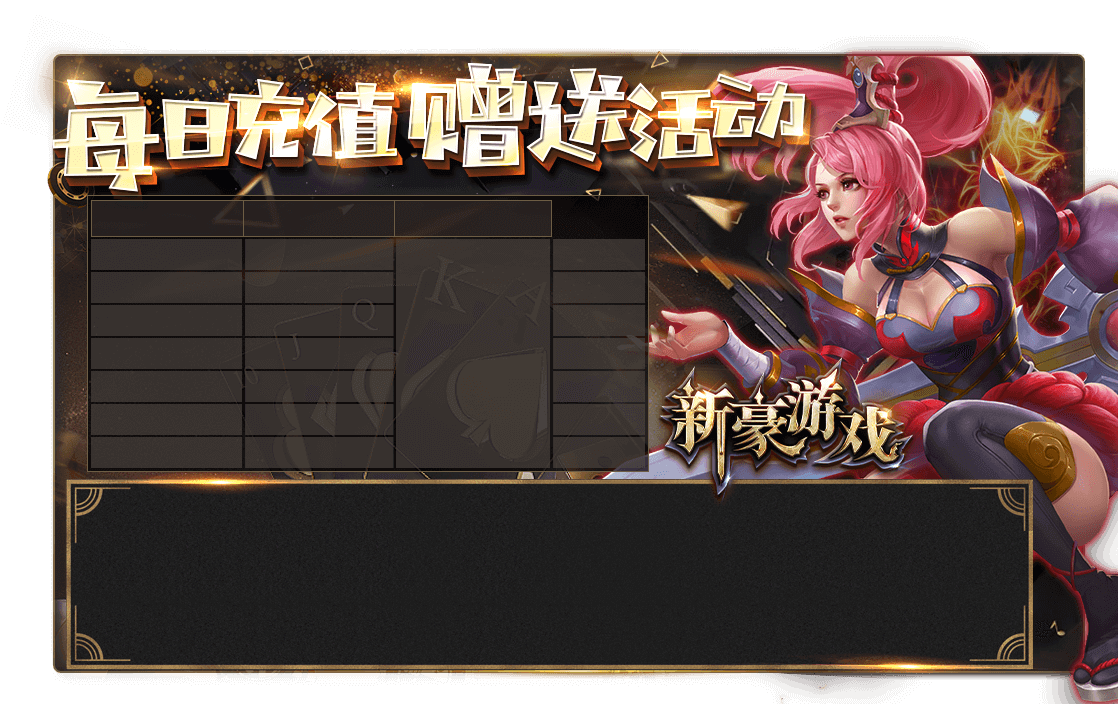
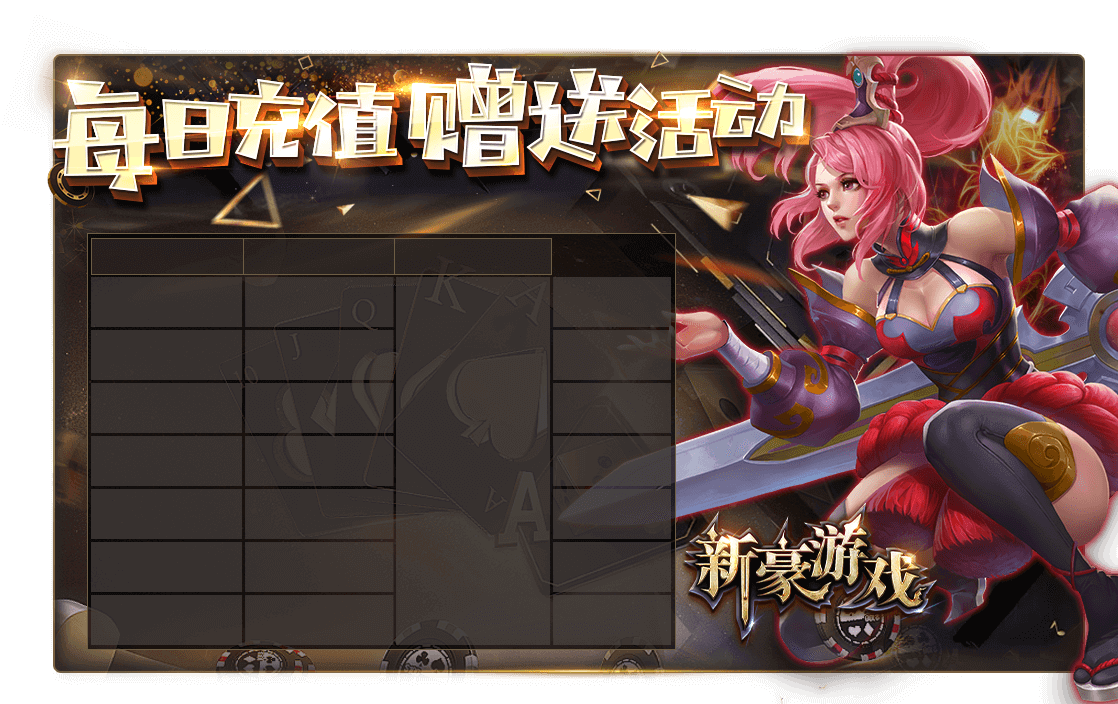
xx

diff --git a/src/components/package_11/Lyhsc.tsx b/src/components/package_11/Lyhsc.tsx
@@ -15,7 +15,8 @@ interface State {
     is_received:number,
     btnActive :boolean,
     applyBtnInteractable : boolean,
-    is_apply : boolean
+    is_apply : boolean,
+    ruleActive:boolean
 }
 export default class Lyhsc11 extends React.Component<Props,State>{
     state = {
@@ -32,7 +33,8 @@ export default class Lyhsc11 extends React.Component<Props,State>{
         pay_amount_byday:0,
         btnActive :false,
         applyBtnInteractable : true,
-        is_apply : false
+        is_apply : false,
+        ruleActive:false
     }
     btnIndex= 0 
     componentDidMount(){
@@ -44,7 +46,7 @@ export default class Lyhsc11 extends React.Component<Props,State>{
         this.Axios_getPayBonusByDay()
     }
     renderBtn(){
-        if(this.state.is_received === 0 && this.state.pay_amount_byday!==0){
+        if( this.state.pay_amount_byday!==0){
             this.state.info.range.forEach((item,index)=>{
                 if(this.state.pay_amount_byday >= item.recharge_amount) {
                     this.btnIndex = index
@@ -62,6 +64,11 @@ export default class Lyhsc11 extends React.Component<Props,State>{
     }
     onClick =(e:any)=>{
         this.Axios_receivePayBonusGold()
+    }
+    ruleBtnClick = (e:any)=>{
+        this.setState({
+            ruleActive:!this.state.ruleActive
+        }) 
     }
     applyBtnonClick =()=>{
         if(this.state.applyBtnInteractable){
@@ -158,7 +165,7 @@ export default class Lyhsc11 extends React.Component<Props,State>{
         return (
             <div className ="Lyhsc11" >
                 <div className = "group">
-                    <div className="line">
+                    <div className="line titile">
                         <div className ="li1 flexBox" style={{color:"#E8B56F"}}>充值金额</div>
                         <div className ="li2 flexBox" style={{color:"#E8B56F"}}>赠送金额</div>
                         <div className ="li3 flexBox" style={{color:"#E8B56F"}}>流水要求</div>
@@ -179,13 +186,15 @@ export default class Lyhsc11 extends React.Component<Props,State>{
                         <div className="flexBox">{gHandler.transitionTime(this.state.info.start)}-{gHandler.transitionTime(this.state.info.end)}</div>
                     </div> */}
                 </div>
-                <div className = "rule">
-                    <p>活动规则：</p>
-                    <p>1. 绑定手机和银行卡即可参加，单日充值金额累加统计，达到档位即可领取赠送彩金。</p>
-                    <p>2. 每日23:59:59，活动计算的当日充值金额累加归零。</p>
-                    <p>3. 每一个账号(同一IP，同一设备，同一姓名视为一个账号）每天只能领取一次。</p>
-                    <p>4. 平台拥有最终解释权，严禁一切恶意行为，出现违规情况，一律封号处理；同时平台有权根据实际情况，随时调整活动内容。</p>
-                </div>
+                <div className = "ruleBtn" onClick={this.ruleBtnClick}></div>
+                {
+                    this.state.ruleActive ? <div className = "rule">
+                        <p>1. 绑定手机和银行卡即可参加，单日充值金额累加统计，达到档位即可领取赠送彩金。</p>
+                        <p>2. 每日23:59:59，活动计算的当日充值金额累加归零。</p>
+                        <p>3. 每一个账号(同一IP，同一设备，同一姓名视为一个账号）每天只能领取一次。</p>
+                        <p>4. 平台拥有最终解释权，严禁一切恶意行为，出现违规情况，一律封号处理；同时平台有权根据实际情况，随时调整活动内容。</p>
+                    </div> :null
+                }
             </div>
         )
     }

diff --git a/src/components/package_11/Lyhsc.scss b/src/components/package_11/Lyhsc.scss
@@ -15,10 +15,10 @@ $src:'../../asses/activity/package_11/';
         height: 100px;
         position: absolute;
         left: 16px;
-        top: 42px;
+        top: 51px;
         .line{
             display: flex;
-            height: 9.1px;
+            height: 14.3px;
             .li1{
                 width: 43px;
             }
@@ -29,38 +29,57 @@ $src:'../../asses/activity/package_11/';
                 width: 42px;
             }
             .li4{
-                width: 27px;
+                width: 32px;
                 .btn_linqu{
-                    width: 20px;
-                    height: 8px;
-                    background-image: url($src+"sprite/btn_linqu.png") ;
+                    width: 21px;
+                    height: 10px;
+                    background-image: url($src+"sprite/btn_linqu.1.png") ;
                     background-repeat: no-repeat;
                     background-size: contain;
                 }
                 .btn_Ylinqu{
-                    width: 20px;
-                    height: 8px;
-                    background-image: url($src+"sprite/btn_Ylinqu.png") ;
+                    width: 21px;
+                    height: 10px;
+                    background-image: url($src+"sprite/btn_Ylinqu.1.png") ;
                     background-repeat: no-repeat;
                     background-size: contain;
                 }
             }
         }
+        .titile{
+            height: 11px;
+        }
         .label1{
             position: absolute;
             left: 89px;
-            top: 29px;
+            top: 45px;
         }
     }
-    .rule{
+    .ruleBtn{
+        background-image: url($src+"sprite/btn_rule2.png") ;
+        background-repeat: no-repeat;
+        background-size: contain;
+        width: 40px;
+        height: 12px;
         position: absolute;
-        width: 250px;
-        left: 20px;
+        left: 160px;
+        top: 36px;
+    }
+    .rule{
+        background-image: url($src+"sprite/rule_bg.png") ;
+        background-repeat: no-repeat;
+        background-size: contain;
+        position: absolute;
+        width: 200px;
+        height: 120px;
+        left: 10px;
         line-height: 7.5px;
-        top: 122px;
+        top: 50px;
         color: #FEFFC9;
+        padding-top: 10px;
         p{
-            margin: 0px;
+
+            margin: 5px;
         }
     }
 }

diff --git a/src/components/package_6/Ryjhd.tsx b/src/components/package_6/Ryjhd.tsx
@@ -65,29 +65,6 @@ export default class Ryjhd6 extends React.Component<Props,State>{
             })
         }
     }
-    renderBtn(){
-        if(this.state.info.range[0].performance !==0 ){
-            this.state.info.range.forEach((item,index)=>{
-                if(index < 6 &&  this.state.PerformanceInfo.amount >=item.performance && this.state.PerformanceInfo.grant >=item.grant) {
-                    this.btnIndex = index
-                    this.setState({
-                        btnActive:true
-                    })
-                }
-            })
-        }
-        if(this.state.PerformanceInfo.received_info && Number(this.state.PerformanceInfo.received_info[0].receive_amount)> 0){
-            this.state.PerformanceInfo.received_info.forEach((e)=>{
-                this.state.info.range.forEach((item,index)=>{
-                    if(Number(e.receive_amount) === item.gold){
-                        this.setState({
-                            is_received:true
-                        })
-                    }
-                })
-            })
-        }
-    }
     componentWillUnmount(){
         this.setState = (state,callback)=>{
             return

diff --git a/src/components/package_11/Xyhschd.scss b/src/components/package_11/Xyhschd.scss
@@ -31,16 +31,16 @@ $src:'../../asses/activity/package_11/';
             .li4{
                 width: 36px;
                 .btn_linqu{
-                    width: 20px;
-                    height: 12px;
-                    background-image: url($src+"sprite/btn_linqu.png") ;
+                    width: 21px;
+                    height: 10px;
+                    background-image: url($src+"sprite/btn_linqu.1.png") ;
                     background-repeat: no-repeat;
                     background-size: contain;
                 }
                 .btn_Ylinqu{
-                    width: 20px;
-                    height: 12px;
-                    background-image: url($src+"sprite/btn_Ylinqu.png") ;
+                    width: 21px;
+                    height: 10px;
+                    background-image: url($src+"sprite/btn_Ylinqu.1.png") ;
                     background-repeat: no-repeat;
                     background-size: contain;
                 }

diff --git a/src/components/package_11/Bytghl.scss b/src/components/package_11/Bytghl.scss
@@ -39,16 +39,16 @@ $src:'../../asses/activity/package_11/';
             .li6{
                 width: 28px;
                 .btn_linqu{
-                    width: 20px;
+                    width: 21px;
                     height: 10px;
-                    background-image: url($src+"sprite/btn_linqu.png") ;
+                    background-image: url($src+"sprite/btn_linqu.1.png") ;
                     background-repeat: no-repeat;
                     background-size: contain;
                 }
                 .btn_Ylinqu{
-                    width: 20px;
-                    height: 12px;
-                    background-image: url($src+"sprite/btn_Ylinqu.png") ;
+                    width: 21px;
+                    height: 10px;
+                    background-image: url($src+"sprite/btn_Ylinqu.1.png") ;
                     background-repeat: no-repeat;
                     background-size: contain;
                 }

diff --git a/src/components/package_9/FfcBpQiQu.tsx b/src/components/package_9/FfcBpQiQu.tsx
@@ -49,7 +49,7 @@ export default class FfcBpQiQu extends React.Component<Props,State>{
         this.Axios_getRewardFFCFlag()
     }
     renderBtn(){
-        if(this.state.is_received === "0" &&this.state.lose_amount!==0){
+        if(this.state.lose_amount!==0){
             this.state.info.lose_range.forEach((item,index)=>{
                 if(this.state.lose_amount >= item.lose_min && this.state.lose_amount < item.lose_max) {
                     this.btnIndex = index

diff --git a/src/components/package_10/Xyhschd.tsx b/src/components/package_10/Xyhschd.tsx
@@ -47,7 +47,7 @@ export default class Xyhschd10 extends React.Component<Props,State>{
         this.Axios_getFristPayAmount()
     }
     renderBtn(){
-        if(this.state.is_received === 0 && this.state.frist_pay_amount !==0){
+        if(this.state.frist_pay_amount !==0){
             this.state.info.range.forEach((item,index)=>{
                 if(this.state.frist_pay_amount >= item.recharge_amount) {
                     this.btnIndex = index

diff --git a/src/components/package_11/Xyhschd.tsx b/src/components/package_11/Xyhschd.tsx
@@ -47,7 +47,7 @@ export default class Xyhschd11 extends React.Component<Props,State>{
         this.Axios_getFristPayAmount()
     }
     renderBtn(){
-        if(this.state.is_received === 0 && this.state.frist_pay_amount !==0){
+        if(this.state.frist_pay_amount !==0){
             this.state.info.range.forEach((item,index)=>{
                 if(this.state.frist_pay_amount >= item.recharge_amount) {
                     this.btnIndex = index

diff --git a/src/components/package_12/Xyhschd.tsx b/src/components/package_12/Xyhschd.tsx
@@ -47,7 +47,7 @@ export default class Xyhschd12 extends React.Component<Props,State>{
         this.Axios_getFristPayAmount()
     }
     renderBtn(){
-        if(this.state.is_received === 0 && this.state.frist_pay_amount !==0){
+        if(this.state.frist_pay_amount !==0){
             this.state.info.range.forEach((item,index)=>{
                 if(this.state.frist_pay_amount >= item.recharge_amount) {
                     this.btnIndex = index

diff --git a/src/components/package_13/Xyhschd.tsx b/src/components/package_13/Xyhschd.tsx
@@ -47,7 +47,7 @@ export default class Xyhschd13 extends React.Component<Props,State>{
         this.Axios_getFristPayAmount()
     }
     renderBtn(){
-        if(this.state.is_received === 0 && this.state.frist_pay_amount !==0){
+        if(this.state.frist_pay_amount !==0){
             this.state.info.range.forEach((item,index)=>{
                 if(this.state.frist_pay_amount >= item.recharge_amount) {
                     this.btnIndex = index

diff --git a/src/components/package_15/Xyhschd.tsx b/src/components/package_15/Xyhschd.tsx
@@ -49,7 +49,7 @@ export default class Xyhschd15 extends React.Component<Props,State>{
         this.Axios_getFristPayAmount()
     }
     renderBtn(){
-        if(this.state.is_received === 0 && this.state.frist_pay_amount !==0){
+        if(this.state.frist_pay_amount !==0){
             this.state.info.range.forEach((item,index)=>{
                 if(this.state.frist_pay_amount >= item.recharge_amount) {
                     this.btnIndex = index

diff --git a/src/components/package_6/Xyhschd.tsx b/src/components/package_6/Xyhschd.tsx
@@ -49,7 +49,7 @@ export default class Xyhschd6 extends React.Component<Props,State>{
         this.Axios_getFristPayAmount()
     }
     renderBtn(){
-        if(this.state.is_received === 0 && this.state.frist_pay_amount !==0){
+        if(this.state.frist_pay_amount !==0){
             this.state.info.range.forEach((item,index)=>{
                 if(this.state.frist_pay_amount >= item.recharge_amount) {
                     this.btnIndex = index
